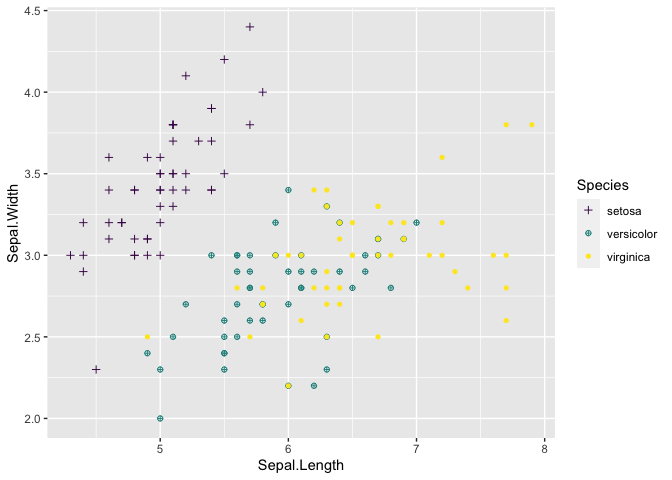
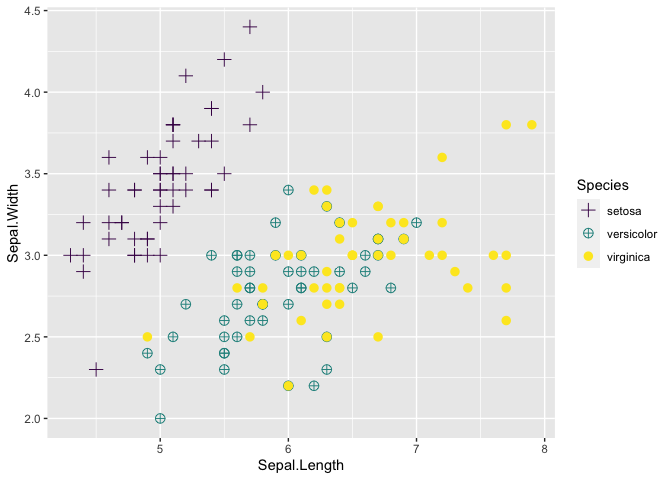
Change points size

diff --git a/Styling-Scatterplot.md b/Styling-Scatterplot.md
@@ -194,7 +194,7 @@ ggplot(iris, aes(x=Sepal.Length, y=Sepal.Width,
 ggplot(iris, aes(x=Sepal.Length, y=Sepal.Width, 
                  col=Species,
                  shape=Species)) + 
-  geom_point() +
+  geom_point(size = 3) +
   scale_shape_manual(values = c(3, 10, 16))+
   ## Using viridis package here
   scale_color_viridis(discrete=TRUE,option = "D") 
